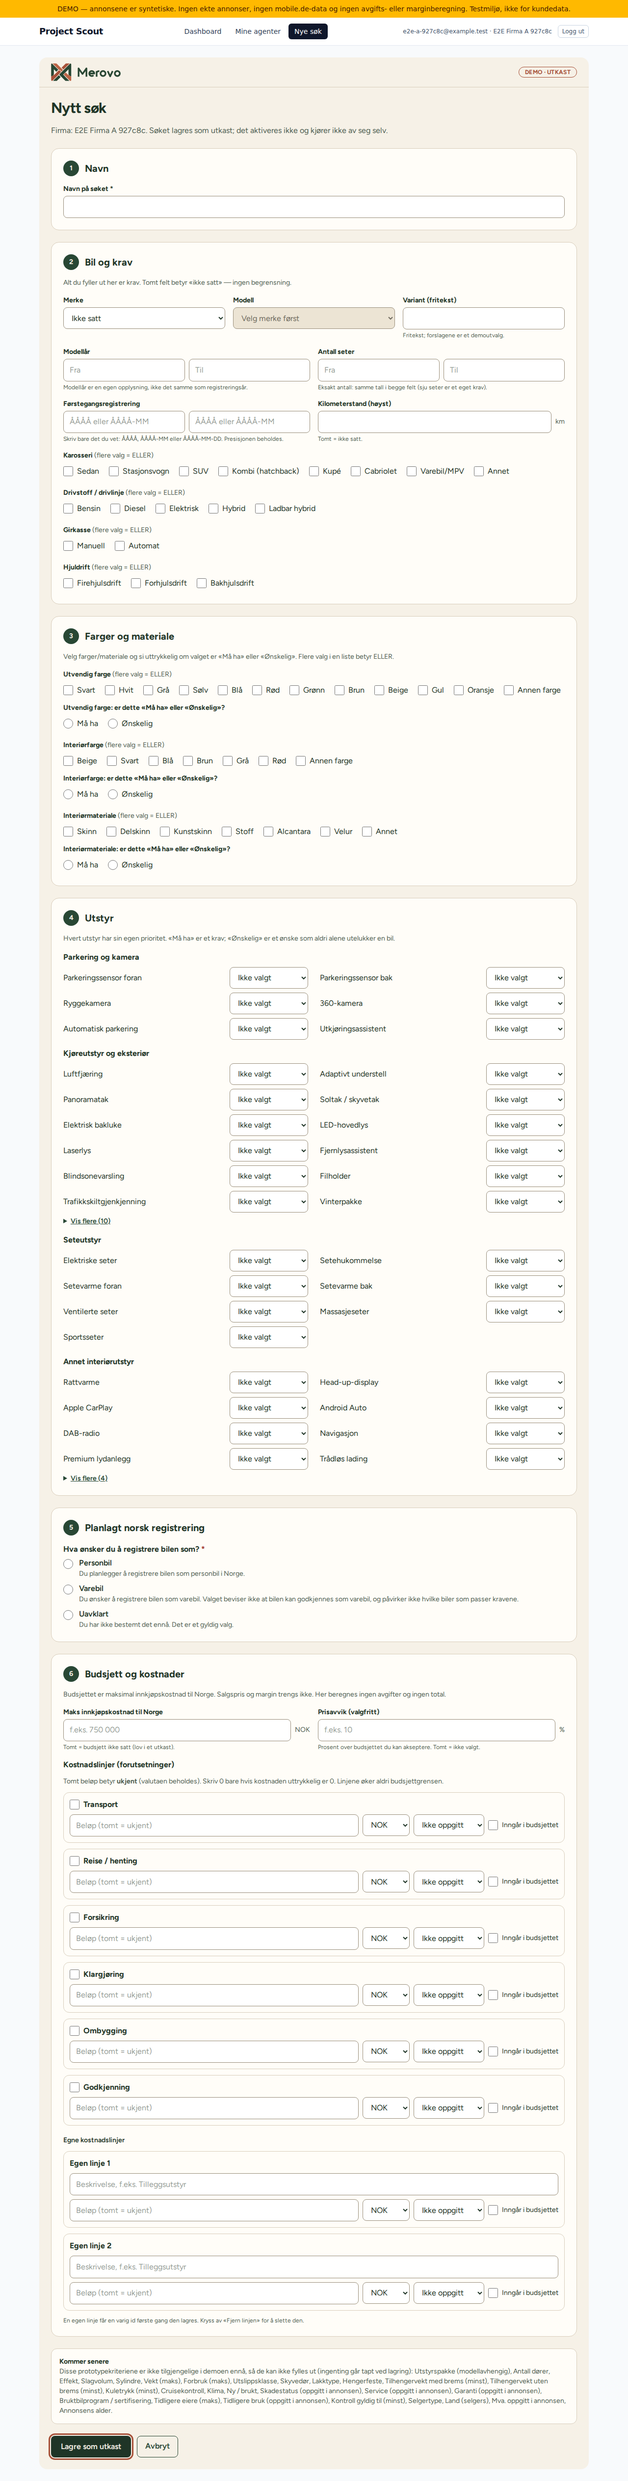
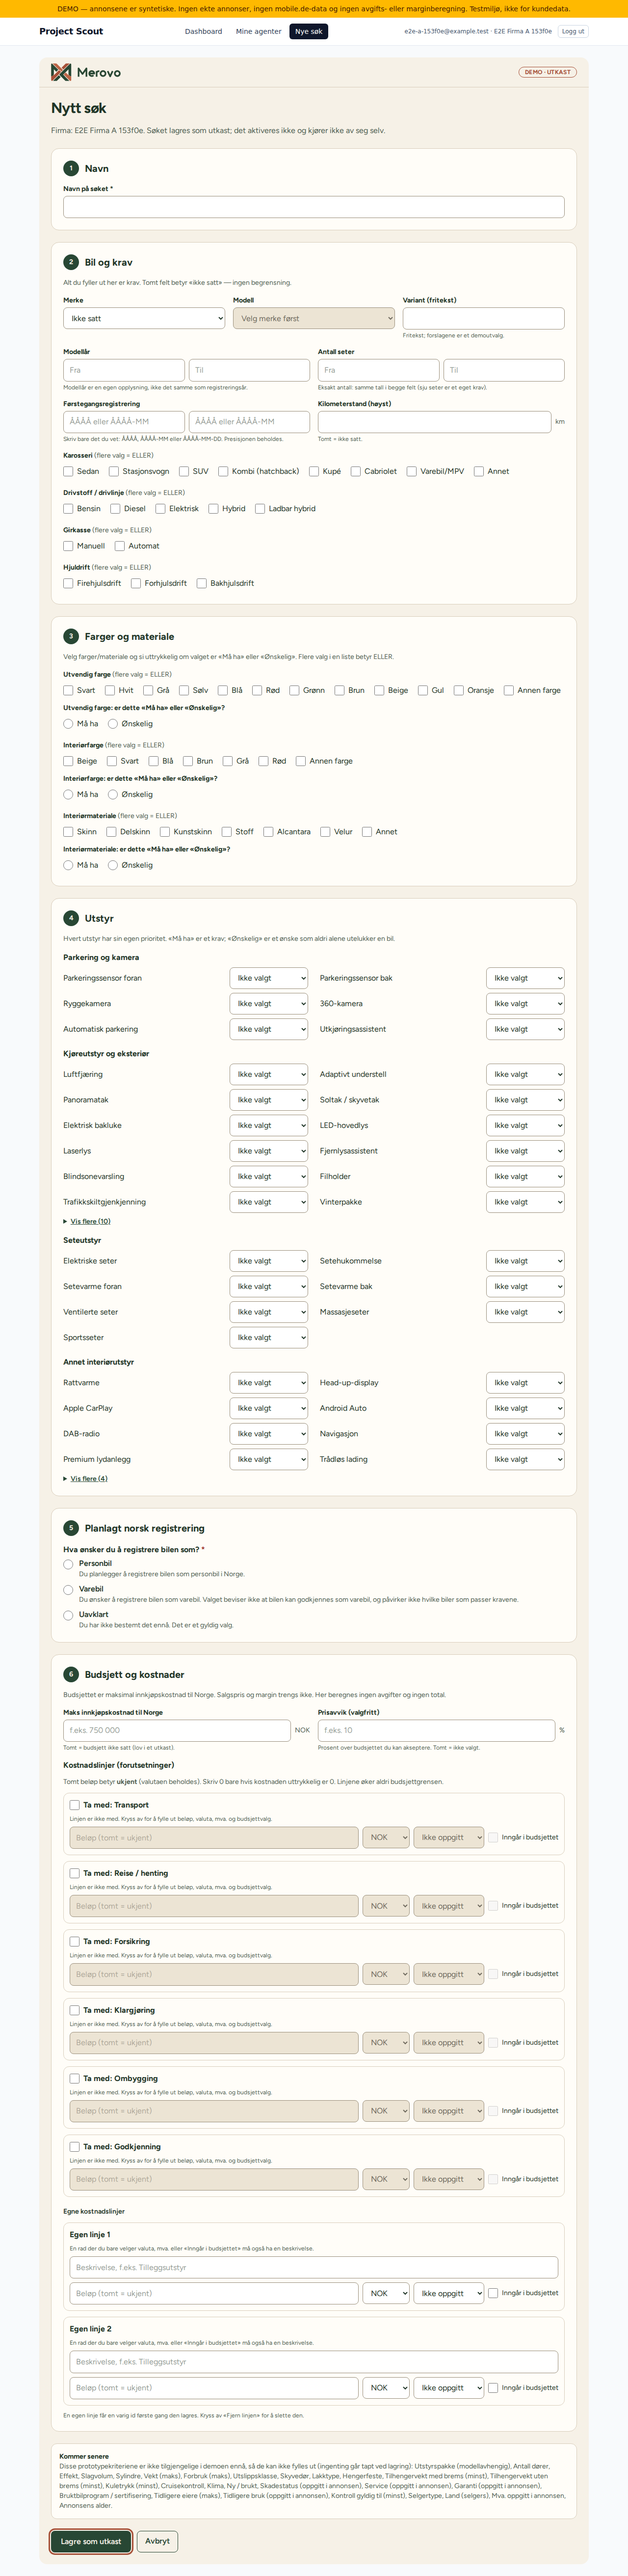
SEARCH-005-FIX1: ikke mist kostnadsvalg ved lagring (egne og faste kostnadslinjer)
Claude-Session: https://claude.ai/code/session_01JjYhXySLs4rpmRg3zBbKKS

diff --git a/src/components/search/SearchForm.tsx b/src/components/search/SearchForm.tsx
@@ -63,10 +63,14 @@ export function SearchForm({ id, version, initial, note }: { id?: string; versio
   const models = brand ? DEMO_MODELS[brand] ?? [] : [];
   const selectedModel = val("model");
   const variantSuggestions = models.find((m) => m.key === selectedModel)?.variants ?? [];
-  const customCount = Math.min(
-    MAX_CUSTOM_INDEX + 1,
-    Math.max(0, ...Object.keys(values).flatMap((k) => { const m = /^custom\.(\d{1,2})\./.exec(k); return m ? [Number(m[1]) + 1] : []; })) + BLANK_CUSTOM_ROWS,
-  );
+  // Antall egendefinerte rader: til og med siste rad med innhold + tomme plasser (vokser ikke for hver avviste lagring).
+  const usedCustom = Object.keys(values).flatMap((k) => {
+    const m = /^custom\.(\d{1,2})\.(id|label|amount|vat|included|remove|currency)$/.exec(k);
+    if (!m) return [];
+    const val = typeof values[k] === "string" ? (values[k] as string) : "";
+    return val !== "" && !(m[2] === "currency" && val === "NOK") ? [Number(m[1]) + 1] : [];
+  });
+  const customCount = Math.min(MAX_CUSTOM_INDEX + 1, Math.max(0, ...usedCustom) + BLANK_CUSTOM_ROWS);
 
   return (
     // `action` er reserveveien uten JavaScript. Med JavaScript sendes skjemaet manuelt, slik at React ikke nullstiller feltene etter en
@@ -334,16 +338,27 @@ function CostRow({ prefix, title, fixed, values, errors }: { prefix: string; tit
   const v = (k: string) => (typeof values[`${prefix}.${k}`] === "string" ? (values[`${prefix}.${k}`] as string) : "");
   const e = (k: string) => errors[`${prefix}.${k}`];
   const stored = !fixed && v("id") !== "";
+  // Fast linje: feltene er av (og sendes ikke) til linjen er tatt med, så verdier aldri skrives inn på en linje som blir utelatt.
+  const [use, setUse] = useState(v("use") === "true");
+  const off = fixed && !use;
   return (
     <div className="rounded-xl border border-sand p-3" data-cost={prefix}>
       <div className="mb-2 flex flex-wrap items-center justify-between gap-2">
         {fixed
-          ? <label className="flex items-center gap-2 font-bold"><input type="checkbox" name={`${prefix}.use`} value="true" defaultChecked={v("use") === "true"} className="h-5 w-5 accent-forest" />{title}</label>
+          ? <label className="flex items-center gap-2 font-bold"><input type="checkbox" name={`${prefix}.use`} value="true" checked={use} onChange={(ev) => setUse(ev.target.checked)} aria-describedby={`h-${prefix}`} className="h-5 w-5 accent-forest" />Ta med: {title}</label>
           : <span className="font-bold">{title}{stored && <span className="ml-2 text-xs font-normal text-muted">lagret linje</span>}</span>}
         {!fixed && stored && (
           <label className="flex items-center gap-2 text-sm"><input type="checkbox" name={`${prefix}.remove`} value="true" className="h-5 w-5 accent-danger" />Fjern linjen</label>
         )}
       </div>
+      {fixed && (
+        <p id={`h-${prefix}`} className={`mb-2 text-xs ${e("use") ? "font-semibold text-danger" : "text-muted"}`}>
+          {e("use") ?? (use ? "Linjen tas med. Tomt beløp betyr ukjent." : "Linjen er ikke med. Kryss av for å fylle ut beløp, valuta, mva. og budsjettvalg.")}
+        </p>
+      )}
+      {!fixed && (
+        <p className="mb-2 text-xs text-muted">En rad der du bare velger valuta, mva. eller «Inngår i budsjettet» må også ha en beskrivelse.</p>
+      )}
       {!fixed && (
         <div className="mb-2" id={`f-${prefix}.label`}>
           <input type="hidden" name={`${prefix}.id`} value={v("id")} />
@@ -353,17 +368,17 @@ function CostRow({ prefix, title, fixed, values, errors }: { prefix: string; tit
       )}
       <div className="grid gap-2 sm:grid-cols-[1fr_6rem_9rem_auto] sm:items-start">
         <div id={`f-${prefix}.amount`}>
-          <input type="text" inputMode="decimal" name={`${prefix}.amount`} defaultValue={v("amount")} placeholder="Beløp (tomt = ukjent)" aria-label={`${title}: beløp`} aria-invalid={e("amount") ? true : undefined} />
+          <input type="text" inputMode="decimal" name={`${prefix}.amount`} defaultValue={v("amount")} disabled={off} placeholder="Beløp (tomt = ukjent)" aria-label={`${title}: beløp`} aria-invalid={e("amount") ? true : undefined} />
           {e("amount") && <p className="mt-1 text-sm font-semibold text-danger">{e("amount")}</p>}
         </div>
-        <select name={`${prefix}.currency`} defaultValue={v("currency") || "NOK"} aria-label={`${title}: valuta`}>
+        <select name={`${prefix}.currency`} defaultValue={v("currency") || "NOK"} disabled={off} aria-label={`${title}: valuta`}>
           {CURRENCIES.map((c) => <option key={c} value={c}>{c}</option>)}
         </select>
-        <select name={`${prefix}.vat`} defaultValue={v("vat")} aria-label={`${title}: mva.-grunnlag`}>
+        <select name={`${prefix}.vat`} defaultValue={v("vat")} disabled={off} aria-label={`${title}: mva.-grunnlag`}>
           {VAT_OPTIONS.map((o) => <option key={o.value} value={o.value}>{o.label}</option>)}
         </select>
         <label className="flex min-h-11 items-center gap-2 text-sm">
-          <input type="checkbox" name={`${prefix}.included`} value="true" defaultChecked={v("included") === "true"} className="h-5 w-5 accent-forest" />
+          <input type="checkbox" name={`${prefix}.included`} value="true" defaultChecked={v("included") === "true"} disabled={off} className="h-5 w-5 accent-forest" />
           Inngår i budsjettet
         </label>
       </div>

diff --git a/tests/search-005-form.test.ts b/tests/search-005-form.test.ts
@@ -190,6 +190,58 @@ describe("stabile kostnads-id-er", () => {
   });
 });
 
+describe("SEARCH-005-FIX1: kostnadsvalg faller aldri stille bort", () => {
+  it("helt urørt tom rad (NOK, ikke oppgitt mva., ikke inkludert) utelates uten feil", () => {
+    const r = ok(demo("demo-bmw", { "custom.0.label": "", "custom.0.amount": "", "custom.0.currency": "NOK", "custom.0.vat": "", "custom.0.included": "" }));
+    expect(r.spec!.budget.costs.filter((c) => c.kind === "custom")).toEqual([]);
+  });
+  it("valuta, mva.-grunnlag eller «Inngår i budsjettet» uten beskrivelse gir feltfeil og ingen spec; råverdiene beholdes", () => {
+    const cases: [string, FormValues][] = [
+      ["valuta", { "custom.0.currency": "EUR" }], ["mva", { "custom.0.vat": "excl" }], ["inkludert", { "custom.0.included": "true" }],
+      ["alt", { "custom.0.currency": "SEK", "custom.0.vat": "none", "custom.0.included": "true" }],
+    ];
+    for (const [name, patch] of cases) {
+      const r = parse(demo("demo-bmw", { "custom.0.label": "", "custom.0.amount": "", ...patch }));
+      expect(r.ok, name).toBe(false);
+      expect(r.errors["custom.0.label"], name).toBe("Gi kostnadslinjen en beskrivelse.");
+      expect(r.spec).toBeNull();
+      expect(r.json).toBeNull();
+      for (const [k, v] of Object.entries(patch)) expect(r.values[k], `${name} ${k}`).toBe(v); // brukeren kan fullføre raden
+    }
+  });
+  it("beskrevet rad med tomt beløp og EUR bevares som ukjent EUR med mva./budsjettvalg og stabil id — også etter lagre → åpne → lagre", () => {
+    const r1 = ok(demo("demo-bmw", { "custom.0.label": "Tollagring", "custom.0.amount": "", "custom.0.currency": "EUR", "custom.0.vat": "excl", "custom.0.included": "true" }));
+    const c = r1.spec!.budget.costs.find((x) => x.kind === "custom")!;
+    expect(c).toMatchObject({ label: "Tollagring", amountMinor: null, currency: "EUR", vatBasis: "excl", includedInBudget: true });
+    expect(c.id).toMatch(/^c-[0-9a-f]{12}$/);
+    const r2 = ok(specToFormValues(r1.name!, r1.spec!));
+    expect(r2.spec!.budget.costs.find((x) => x.kind === "custom")).toEqual(c);
+  });
+  it("«Fjern linjen» fjerner raden selv om gamle feltverdier følger med; id-ene til de andre er uendret", () => {
+    const first = ok(demo("demo-bmw", { "custom.0.label": "A", "custom.0.amount": "1", "custom.0.currency": "EUR", "custom.0.included": "true", "custom.1.label": "B", "custom.1.amount": "2" }));
+    const [a, b] = first.spec!.budget.costs.filter((x) => x.kind === "custom");
+    const form: FormValues = { ...specToFormValues(first.name!, first.spec!), "custom.0.remove": "true" };
+    expect(form["custom.0.currency"]).toBe("EUR"); // gamle verdier følger med
+    const second = ok(form);
+    expect(second.spec!.budget.costs.filter((x) => x.kind === "custom").map((x) => x.id)).toEqual([b!.id]);
+    expect(second.spec!.budget.costs.map((x) => x.id)).not.toContain(a!.id);
+  });
+  it("fast linje med verdier, men uten avkrysning, gir feil i stedet for å bli utelatt; uten verdier er avslått linje uproblematisk", () => {
+    for (const patch of <FormValues[]>[{ "cost.insurance.amount": "500" }, { "cost.insurance.included": "true" }, { "cost.insurance.currency": "EUR" }, { "cost.insurance.vat": "incl" }]) {
+      const r = parse(demo("demo-bmw", patch));
+      expect(r.ok, JSON.stringify(patch)).toBe(false);
+      expect(r.errors["cost.insurance.use"]).toMatch(/Kryss av/);
+    }
+    const off = ok(demo("demo-bmw", { "cost.insurance.use": "", "cost.insurance.currency": "NOK" })); // standardverdier = urørt
+    expect(off.spec!.budget.costs.some((x) => x.id === "insurance")).toBe(false);
+    // uttrykkelig deaktivering av en tidligere lagret fast linje (feltene er deaktivert i skjemaet, så ingen verdier følger med)
+    const stored = ok(demo("demo-bmw", { "cost.insurance.use": "true", "cost.insurance.amount": "500", "cost.insurance.currency": "EUR", "cost.insurance.included": "true" }));
+    const fv = specToFormValues(stored.name!, stored.spec!);
+    const deact: FormValues = Object.fromEntries(Object.entries(fv).filter(([k]) => !k.startsWith("cost.insurance.")));
+    expect(ok(deact).spec!.budget.costs.some((x) => x.id === "insurance")).toBe(false);
+  });
+});
+
 describe("forhåndsvisning mot syntetiske annonser", () => {
   const prov = () => new SyntheticMarketplaceProvider();
   it("GLS-eksempelet gir null fullstendige treff og forklarer hva kilden ikke kan oppgi", async () => {

diff --git a/src/server/search-form.ts b/src/server/search-form.ts
@@ -282,6 +282,9 @@ export function parseSearchFormValues(values: FormValues, catalog: SearchCatalog
   };
   for (const { kind, label } of FIXED_COSTS) {
     if (asStr(values, `cost.${kind}.use`) === "true") costLine(`cost.${kind}`, kind, kind, label);
+    // Verdier på en linje som ikke er huket av gå ikke tapt i det stille. (Skjemaet deaktiverer feltene når linjen er av, så en
+    // uttrykkelig avhuking sender ingen verdier; dette fanger direkte poster og skjema uten JavaScript.)
+    else if (rowTouched(values, `cost.${kind}`, "", "")) err(`cost.${kind}.use`, `Du har fylt ut ${label.toLowerCase()}, men linjen er ikke tatt med. Kryss av for å ta den med, eller tøm feltene.`);
   }
   const customIdx = [...new Set(Object.keys(values).flatMap((k) => { const m = /^custom\.(\d{1,2})\./.exec(k); return m ? [Number(m[1])] : []; }))]
     .filter((n) => n <= MAX_CUSTOM_INDEX).sort((a, b) => a - b);
@@ -291,8 +294,9 @@ export function parseSearchFormValues(values: FormValues, catalog: SearchCatalog
     if (asStr(values, `${p}.remove`) === "true") continue;
     const rawId = asStr(values, `${p}.id`).trim();
     const label = asStr(values, `${p}.label`).trim();
-    const touched = rawId !== "" || label !== "" || asStr(values, `${p}.amount`).trim() !== "";
-    if (!touched) continue; // tom, ubrukt rad
+    // En rad er urørt bare når ALT er i standardtilstand (NOK, mva. ikke oppgitt, ikke inkludert). Valuta, mva.-grunnlag og
+    // «Inngår i budsjettet» er meningsfulle valg: de skal enten bevares komplett eller gi feltfeil, aldri stille falle bort.
+    if (!rowTouched(values, p, rawId, label)) continue;
     if (label === "") { err(`${p}.label`, "Gi kostnadslinjen en beskrivelse."); continue; }
     if (label.length > COST_LABEL_MAX) { err(`${p}.label`, `Beskrivelsen kan ha høyst ${COST_LABEL_MAX} tegn.`); continue; }
     if (/[\u0000-\u001f\u007f]/.test(label)) { err(`${p}.label`, "Beskrivelsen inneholder ugyldige tegn."); continue; }
@@ -338,6 +342,13 @@ export function parseSearchFormValues(values: FormValues, catalog: SearchCatalog
   }
   const ok = spec !== null && json !== null && Object.keys(errors).length === 0 && general.length === 0;
   return { ok, name: ok ? name : null, spec: ok ? spec : null, json: ok ? json : null, errors, general, values };
+}
+
+/** Har raden noe meningsfullt innhold? Standardtilstand er NOK, mva. ikke oppgitt, ikke inkludert, ingen id/beskrivelse/beløp. */
+function rowTouched(values: FormValues, prefix: string, id: string, label: string): boolean {
+  const cur = asStr(values, `${prefix}.currency`).trim();
+  return id !== "" || label !== "" || asStr(values, `${prefix}.amount`).trim() !== ""
+    || (cur !== "" && cur !== "NOK") || asStr(values, `${prefix}.vat`) !== "" || asStr(values, `${prefix}.included`) === "true";
 }
 
 /** Domenets feilsti → skjemafelt (så feilen vises ved riktig felt). */

diff --git a/tests/codex-search005-review.test.ts b/tests/codex-search005-review.test.ts
@@ -1,0 +1,19 @@
+import { expect, it } from 'vitest';
+import { parseSearchFormValues } from '@/server/search-form';
+import { DEMO_CATALOG } from '@/adapters/search-catalog/demo-catalog';
+import { EXAMPLES } from '@/server/search-examples';
+function base(){return EXAMPLES.find(x=>x.id==='demo-bmw')!.values();}
+it('custom cost with chosen EUR but missing description must not silently disappear',()=>{
+ const values={...base(),'custom.0.label':'','custom.0.amount':'','custom.0.currency':'EUR'};
+ const r=parseSearchFormValues(values,DEMO_CATALOG);
+ expect(r.ok).toBe(false);
+ expect(r.errors['custom.0.label']).toBeTruthy();
+ expect(r.json).toBeNull();
+});
+it('custom cost marked included with selected VAT basis must not silently disappear',()=>{
+ const values={...base(),'custom.0.label':'','custom.0.amount':'','custom.0.currency':'NOK','custom.0.vat':'incl','custom.0.included':'true'};
+ const r=parseSearchFormValues(values,DEMO_CATALOG);
+ expect(r.ok).toBe(false);
+ expect(r.errors['custom.0.label']).toBeTruthy();
+ expect(r.json).toBeNull();
+});

diff --git a/reviews/SEARCH-005.md b/reviews/SEARCH-005.md
@@ -1,6 +1,6 @@
 # SEARCH-005 — nytt søk med lagring og forklarte demoresultater · leveranserapport
 
-Status: **REVIEW** (ikke DONE). Utfører Claude Code, kontrollør Codex. Kode-commit `11d6543` (base `8401dea`, TAX-001B ZIP-artefakt; kodebase SEARCH-003-FIX1 `8e019be` + SEARCH-004 `782bf77`/`52dea9d`). Branch `claude/wonderful-bardeen-yussx3`, arbeidstreet var rent ved start.
+Status: **REVIEW** (ikke DONE). Utfører Claude Code, kontrollør Codex. Kode-commit `11d6543` (+ FIX1, se egen seksjon) (base `8401dea`, TAX-001B ZIP-artefakt; kodebase SEARCH-003-FIX1 `8e019be` + SEARCH-004 `782bf77`/`52dea9d`). Branch `claude/wonderful-bardeen-yussx3`, arbeidstreet var rent ved start.
 
 ## 0. Avvik og ikke-kjørte kontroller (les først)
 1. **IKKE KJØRT: DB-/RLS-tester mot lokal Supabase.** Miljøet har ingen Docker. De nødvendige DB-/RLS-testene er i stedet kjørt mot en **isolert, midlertidig PostgreSQL 16-klynge** opprettet av `scripts/test-db-isolated.sh` (syntetiske data, lytter bare på 127.0.0.1, slettet etterpå; ingen eksisterende database berørt). Der finnes **ingen Auth (GoTrue) og ingen PostgREST**: Auth/`auth.uid()` er etterlignet av `tests/db/support/supabase-shim.sql`, og tilgangspåstander kjøres som rolle `authenticated`/`anon` med JWT-claims — PostgreSQL-motorens egen RLS, rettigheter, constraints og triggere, ikke HTTP-laget. Supabase-versjonen bruker PostgreSQL 17; lokal klynge er 16. **Migrasjonen er ikke anvendt noe sted utenom den isolerte klyngen** og må kontrolleres av Codex/Christian før `supabase db reset`/`migration up`. `tests/db/search-drafts.test.ts` er skrevet til å kjøre også med `npm run test:db`; det er ikke gjort her. Øvrige DB-testfiler (`rls`, `agents`, `qa-isolation`, `qa-limit`, `qa-validation`, `search-runs`, `rights-retention`) bruker Auth/PostgREST og er **ikke kjørt**; «gamle agenter er uendret» er i stedet vist ved øyeblikksbilde før/etter migrasjonen (§5) og ved test av ti-aktive-grensen (§5).
@@ -51,6 +51,14 @@ Funn underveis (rettet): React 19 nullstilte skjemafeltene etter avvist lagring,
 
 ## 8. Begrensninger
 Ingen avgiftsmotor/total (bevisst); ingen aktivering/kjøring/varsling av nye søk; ingen sletting av utkast; ingen kvote eller rate-limit på utkast (databasen begrenser størrelse ≤ 30 000 byte per dokument); demokatalogen er et utvalg (7 merker); kildekapabiliteter i `capabilities.ts` er håndført og kontrollert mot de 109 annonsene; skjemaet krever JavaScript for å bevare verdier ved feil (uten JS faller det tilbake til standard skjemapost); ikke testet i Safari/Firefox eller med skjermleser; PostgreSQL 16 mot Supabase 17; ekte Auth/PostgREST ikke testet; hosting/tilgangskontroll for partnerdemo er ikke gjort (kreves før noen utenfor kan prøve).
+
+## FIX1 — ikke mist kostnadsvalg ved lagring (Codex-funn F1 P2, rettet etter SEARCH-005 `11d6543`/`f5c3515`)
+**Skille mellom testtyper (uendret):** *emulatorbasert* = appen mot `tests/e2e/support/mini-supabase.mjs` + isolert PostgreSQL 16 (shim, ingen GoTrue/PostgREST); *isolert DB* = `scripts/test-db-isolated.sh`; **mot faktisk Supabase er INGENTING kjørt** (ingen Docker). `npm run test:db` mot lokal Supabase, og kontroll mot Auth/PostgREST, gjenstår før lokal/hosted anvendelse — emulatoren løser ikke dette.
+- **Feil:** `touched` i `parseSearchFormValues` så bare på id/beskrivelse/beløp, så en egen rad med bare valuta, mva.-grunnlag eller «Inngår i budsjettet» ble stille utelatt (ukjent beløp med valgt valuta gikk tapt).
+- **Retting (`src/server/search-form.ts`, `src/components/search/SearchForm.tsx`):** (1) `rowTouched`: urørt = alt standard (NOK, mva. ikke oppgitt, ikke inkludert, ingen id/beskrivelse/beløp); ellers kreves beskrivelse → «Gi kostnadslinjen en beskrivelse.» og ingen spec/JSON; rå verdier returneres så brukeren kan fullføre. (2) Beskrevet rad med tomt beløp + EUR bevares som ukjent EUR med mva./budsjettvalg og stabil id. (3) «Fjern linjen» vinner fortsatt over gamle feltverdier. (4) **Faste linjer:** feltene (beløp/valuta/mva./inkludering) er avslått og sender ingenting før «Ta med: …» er krysset av, med forklaringstekst («Linjen er ikke med …»); uttrykkelig avhuking av en lagret linje fjerner den uten feil. Serveren gir i tillegg feil («… men linjen er ikke tatt med. Kryss av … eller tøm feltene») hvis en fast linje har verdier uten avkrysning (direkte post/uten JS) i stedet for å utelate den i det stille. Budsjettsemantikk og -grense er uendret (ingen autoøkning). (5) Skjemaet vokste med to tomme egne rader for hver avviste lagring; rettet (teller bare rader med innhold).
+- **Regresjoner:** Codex' to tester ligger uendret i `tests/codex-search005-review.test.ts` (feilet før, består nå). Nye i `tests/search-005-form.test.ts` (5): urørt rad utelates; valuta/mva./inkludering/alt uten beskrivelse → feltfeil + råverdier beholdt; ukjent EUR bevart gjennom lagre → åpne → lagre; «Fjern linjen» med gamle verdier; fast linje uten avkrysning (feil) og uttrykkelig deaktivering (ok).
+- **Nettleserregresjon (emulatorbasert, 10 nye sjekker, totalt 61/61):** EUR i tom rad → lagre → feil ved beskrivelse, EUR beholdt → mva./inkludering uten beskrivelse → feil, valg beholdt → beskrivelse → lagret ukjent EUR + rad 2 med mva./budsjettvalg og id-er → gjenåpnet viser ukjent EUR → faste felt avslått/aktivert/avslått ved avkrysning → deaktivering lagres → direkte post av fast verdi uten avkrysning avvises. Skjermbilde `14-fix1-kostnadsvalg-feil.png`.
+- **Kontroller kjørt etter FIX1:** `tsc` og `eslint` exit 0; `vitest` **547/547** (540 + 2 Codex + 5 nye); `npm run build` exit 0; secretskann ingen funn; nettleser (emulator) 61/61. **Isolerte DB-tester ikke gjentatt:** ingen DB-/migrasjonskode er endret (resultatet 83/83 og mutasjonskontrollen 6/6 fra SEARCH-005 gjelder uendret migrasjon).
 
 ## 9. Lokal filplan (selektiv, aldri blind overskriving)
 `reviews/SEARCH-005-file-plan.json` lister hver ny/endret fil med SHA-256 og, der filen finnes i Christians lokale snapshot, forventet lokal hash. Regel: **nye filer** legges til; **endrede filer** erstattes først når lokal hash = forventet; ellers (de fire avvikende dokumentene) flettes seksjonsvis. Migrasjonen anvendes først etter Codex' godkjenning. Genererte ZIP-er er ikke med.

diff --git a/MVP_BACKLOG.md b/MVP_BACKLOG.md
@@ -114,3 +114,4 @@ Foreslått rekkefølge: SEARCH-001A (lokal skjermforhåndsvisning, feltmodell og
 - 15.10.2026: TAX-001A → REVIEW (ikke DONE). Kun dokumentasjon i `docs/tax/` + `reviews/TAX-001A.md`; ingen primærkilde lest direkte (blokkert nettverk), 0 E1-regler, 0 klasse 1–2-tilfeller; kun `docs/tax/check-docs.mjs` kjørt. Neste mulige (ikke startet): TAX-001B primærkontroll.
 - 15.10.2026: TAX-001B → REVIEW (ikke DONE). F1 (vrakpantbegrep) og F2 (økonomisk kost) rettet; 4 regler E1 og 13 E1P av 30, 0 godkjente parametere, 0 klasse 1-referanser, 10 klasse 2; `check-docs.mjs --pack` OK og 8 negative prøver feilet som ønsket; ingen kode/kalkulator kjørt. Rapport: `reviews/TAX-001B.md`. Neste (ikke startet): primærlesing av stortingsvedtak/forskrift og kalkulatorkjøring.
 - 15.10.2026: SEARCH-005 → REVIEW (ikke DONE). `/searches` med lagrede utkast (`search_drafts`, migrasjon klar for separat review, IKKE anvendt hosted/lokalt hos Christian), forhåndsvisning mot syntetisk kilde. 540 ikke-DB-tester, typecheck, lint, bygg, secretskann; DB/RLS-tester (83) mot isolert PostgreSQL 16 uten Auth/PostgREST, ikke mot lokal Supabase; nettleserflyt 51/51 via emulator. Rapport: `reviews/SEARCH-005.md`. Neste mulige (ikke startet): resultatlagring, aktivering av nye søk, hosting-/tilgangskontroll.
+- 15.10.2026: SEARCH-005-FIX1 → REVIEW. Egne kostnadsrader med bare valuta/mva./inkludering ble stille utelatt (Codex F1 P2): rettet (feltfeil «Gi kostnadslinjen en beskrivelse», råverdier beholdt, ukjent EUR bevart, faste linjer avslått til avkrysning). 547 ikke-DB-tester, typecheck, lint, bygg, secretskann; nettleser 61/61 via **emulator**; DB-kode uendret, isolerte DB-tester ikke gjentatt; **ingen kontroll mot faktisk Supabase** (gjenstår før anvendelse). Rapport: `reviews/SEARCH-005.md`.
